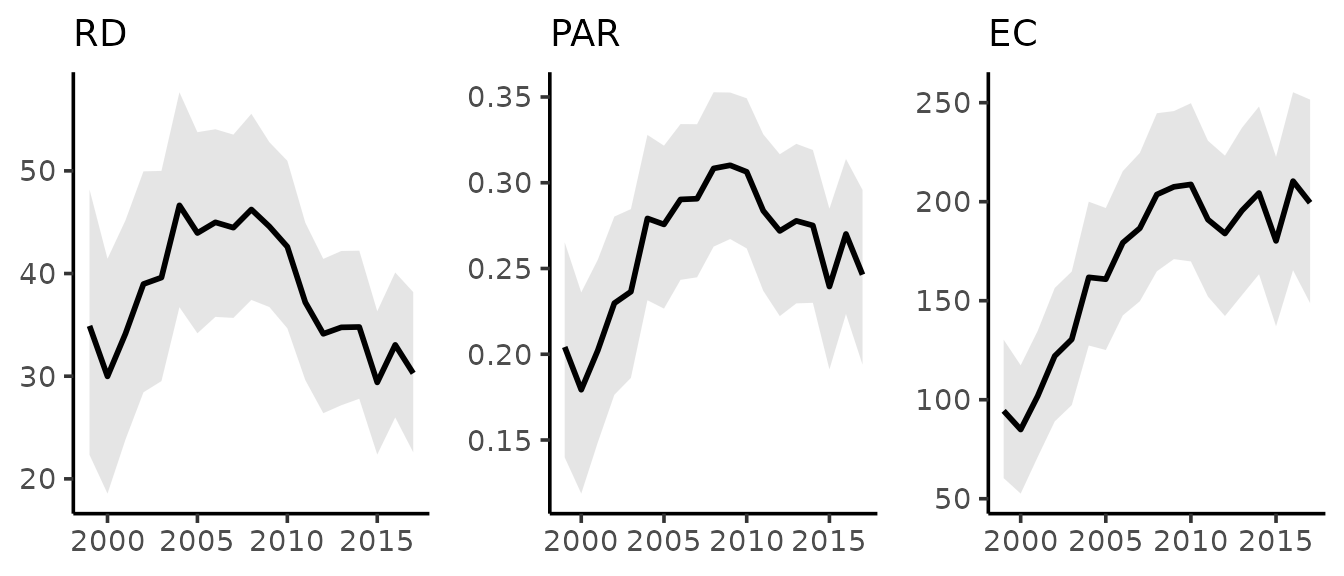
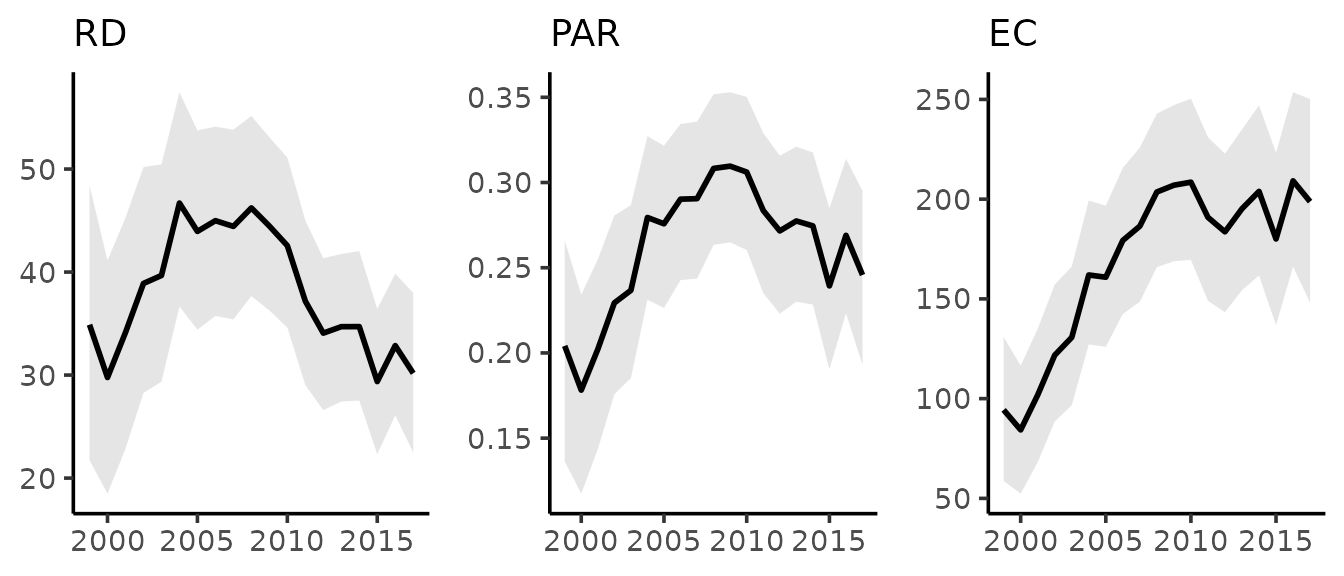
release 0.1.1

diff --git a/docs/articles/demonstration.html b/docs/articles/demonstration.html
@@ -275,9 +275,9 @@
 <span class="co">#&gt; Chain 1: Iteration: 1501 / 3000 [ 50%]  (Sampling)</span>
 <span class="co">#&gt; Chain 1: Iteration: 3000 / 3000 [100%]  (Sampling)</span>
 <span class="co">#&gt; Chain 1: </span>
-<span class="co">#&gt; Chain 1:  Elapsed Time: 0.572904 seconds (Warm-up)</span>
-<span class="co">#&gt; Chain 1:                0.444059 seconds (Sampling)</span>
-<span class="co">#&gt; Chain 1:                1.01696 seconds (Total)</span>
+<span class="co">#&gt; Chain 1:  Elapsed Time: 0.542811 seconds (Warm-up)</span>
+<span class="co">#&gt; Chain 1:                0.447004 seconds (Sampling)</span>
+<span class="co">#&gt; Chain 1:                0.989815 seconds (Total)</span>
 <span class="co">#&gt; Chain 1: </span>
 <span class="co">#&gt; </span>
 <span class="co">#&gt; SAMPLING FOR MODEL 'poissonRW' NOW (CHAIN 2).</span>
@@ -292,15 +292,15 @@
 <span class="co">#&gt; Chain 2: Iteration: 1501 / 3000 [ 50%]  (Sampling)</span>
 <span class="co">#&gt; Chain 2: Iteration: 3000 / 3000 [100%]  (Sampling)</span>
 <span class="co">#&gt; Chain 2: </span>
-<span class="co">#&gt; Chain 2:  Elapsed Time: 0.549725 seconds (Warm-up)</span>
-<span class="co">#&gt; Chain 2:                0.442195 seconds (Sampling)</span>
-<span class="co">#&gt; Chain 2:                0.99192 seconds (Total)</span>
+<span class="co">#&gt; Chain 2:  Elapsed Time: 0.52748 seconds (Warm-up)</span>
+<span class="co">#&gt; Chain 2:                0.43088 seconds (Sampling)</span>
+<span class="co">#&gt; Chain 2:                0.95836 seconds (Total)</span>
 <span class="co">#&gt; Chain 2: </span>
 <span class="co">#&gt; </span>
 <span class="co">#&gt; SAMPLING FOR MODEL 'poissonRW' NOW (CHAIN 3).</span>
 <span class="co">#&gt; Chain 3: </span>
-<span class="co">#&gt; Chain 3: Gradient evaluation took 1.4e-05 seconds</span>
-<span class="co">#&gt; Chain 3: 1000 transitions using 10 leapfrog steps per transition would take 0.14 seconds.</span>
+<span class="co">#&gt; Chain 3: Gradient evaluation took 1.3e-05 seconds</span>
+<span class="co">#&gt; Chain 3: 1000 transitions using 10 leapfrog steps per transition would take 0.13 seconds.</span>
 <span class="co">#&gt; Chain 3: Adjust your expectations accordingly!</span>
 <span class="co">#&gt; Chain 3: </span>
 <span class="co">#&gt; Chain 3: </span>
@@ -309,15 +309,15 @@
 <span class="co">#&gt; Chain 3: Iteration: 1501 / 3000 [ 50%]  (Sampling)</span>
 <span class="co">#&gt; Chain 3: Iteration: 3000 / 3000 [100%]  (Sampling)</span>
 <span class="co">#&gt; Chain 3: </span>
-<span class="co">#&gt; Chain 3:  Elapsed Time: 0.588316 seconds (Warm-up)</span>
-<span class="co">#&gt; Chain 3:                0.452115 seconds (Sampling)</span>
-<span class="co">#&gt; Chain 3:                1.04043 seconds (Total)</span>
+<span class="co">#&gt; Chain 3:  Elapsed Time: 0.557091 seconds (Warm-up)</span>
+<span class="co">#&gt; Chain 3:                0.434027 seconds (Sampling)</span>
+<span class="co">#&gt; Chain 3:                0.991118 seconds (Total)</span>
 <span class="co">#&gt; Chain 3: </span>
 <span class="co">#&gt; </span>
 <span class="co">#&gt; SAMPLING FOR MODEL 'poissonRW' NOW (CHAIN 4).</span>
 <span class="co">#&gt; Chain 4: </span>
-<span class="co">#&gt; Chain 4: Gradient evaluation took 1.8e-05 seconds</span>
-<span class="co">#&gt; Chain 4: 1000 transitions using 10 leapfrog steps per transition would take 0.18 seconds.</span>
+<span class="co">#&gt; Chain 4: Gradient evaluation took 1.5e-05 seconds</span>
+<span class="co">#&gt; Chain 4: 1000 transitions using 10 leapfrog steps per transition would take 0.15 seconds.</span>
 <span class="co">#&gt; Chain 4: Adjust your expectations accordingly!</span>
 <span class="co">#&gt; Chain 4: </span>
 <span class="co">#&gt; Chain 4: </span>
@@ -326,9 +326,9 @@
 <span class="co">#&gt; Chain 4: Iteration: 1501 / 3000 [ 50%]  (Sampling)</span>
 <span class="co">#&gt; Chain 4: Iteration: 3000 / 3000 [100%]  (Sampling)</span>
 <span class="co">#&gt; Chain 4: </span>
-<span class="co">#&gt; Chain 4:  Elapsed Time: 0.548821 seconds (Warm-up)</span>
-<span class="co">#&gt; Chain 4:                0.432596 seconds (Sampling)</span>
-<span class="co">#&gt; Chain 4:                0.981417 seconds (Total)</span>
+<span class="co">#&gt; Chain 4:  Elapsed Time: 0.526051 seconds (Warm-up)</span>
+<span class="co">#&gt; Chain 4:                0.434911 seconds (Sampling)</span>
+<span class="co">#&gt; Chain 4:                0.960962 seconds (Total)</span>
 <span class="co">#&gt; Chain 4:</span></code></pre></div>
 <p>If we wanted to add a correlation structure to the model, we would add <code>cor = TRUE</code> (as opposed to the default, <code>cor = FALSE</code>). To speed things up, we could take advantage of parallel processing using the <code>cores</code> argument (e.g., add <code>cores = 4</code>) to run on 4 cores simultaneously.</p>
 </div>
@@ -392,7 +392,7 @@
 <code class="sourceCode R"><span class="fu"><a href="https://rdrr.io/r/graphics/plot.default.html" class="external-link">plot</a></span><span class="op">(</span><span class="va">fit</span>, scale <span class="op">=</span> <span class="fl">100e3</span><span class="op">)</span>
 <span class="co">#&gt; Plotted rates are per 100,000</span></code></pre></div>
 <p><img src="demonstration_files/figure-html/unnamed-chunk-10-1.png" width="384" style="display: block; margin: auto;"></p>
-<p>Instead of viewing the default plot, we can first store the `<code>ggplot</code> in our working environment and then modify the figure as we please:</p>
+<p>Instead of viewing the default plot, we can first store the <code>ggplot</code> in our working environment and then modify the figure as we please:</p>
 <div class="sourceCode" id="cb10"><pre class="downlit sourceCode r">
 <code class="sourceCode R"><span class="va">fig</span> <span class="op">&lt;-</span> <span class="fu"><a href="https://rdrr.io/r/graphics/plot.default.html" class="external-link">plot</a></span><span class="op">(</span><span class="va">fit</span>, scale <span class="op">=</span> <span class="fl">100e3</span><span class="op">)</span>
 <span class="co">#&gt; Plotted rates are per 100,000</span>
@@ -426,28 +426,28 @@
 <span class="co">#&gt; Reference group: White</span>
 <span class="co">#&gt; Time periods observed: 19</span>
 <span class="co">#&gt; Rate scale: per 100,000</span>
-<span class="co">#&gt; Cumulative excess cases (EC): 3,207 [2974, 3442]</span>
+<span class="co">#&gt; Cumulative excess cases (EC): 3,202 [2975, 3436]</span>
 <span class="co">#&gt; Cumulative EC as a fraction of group risk (PAR): 0.27 [0.25, 0.28]</span>
 <span class="co">#&gt;  time Rate RD  PAR  RR  EC</span>
 <span class="co">#&gt;  1999  170 35 0.20 1.3  94</span>
-<span class="co">#&gt;  2000  166 30 0.18 1.2  85</span>
+<span class="co">#&gt;  2000  166 30 0.18 1.2  84</span>
 <span class="co">#&gt;  2001  168 34 0.20 1.3 102</span>
 <span class="co">#&gt;  2002  169 39 0.23 1.3 122</span>
-<span class="co">#&gt;  2003  167 40 0.24 1.3 130</span>
+<span class="co">#&gt;  2003  167 40 0.24 1.3 131</span>
 <span class="co">#&gt;  2004  167 47 0.28 1.4 162</span>
 <span class="co">#&gt;  2005  159 44 0.28 1.4 161</span>
 <span class="co">#&gt;  2006  155 45 0.29 1.4 179</span>
-<span class="co">#&gt;  2007  153 44 0.29 1.4 187</span>
+<span class="co">#&gt;  2007  153 44 0.29 1.4 186</span>
 <span class="co">#&gt;  2008  150 46 0.31 1.4 204</span>
-<span class="co">#&gt;  2009  144 45 0.31 1.5 208</span>
+<span class="co">#&gt;  2009  143 44 0.31 1.4 207</span>
 <span class="co">#&gt;  2010  139 43 0.31 1.4 209</span>
 <span class="co">#&gt;  2011  131 37 0.28 1.4 191</span>
 <span class="co">#&gt;  2012  125 34 0.27 1.4 184</span>
-<span class="co">#&gt;  2013  125 35 0.28 1.4 196</span>
-<span class="co">#&gt;  2014  126 35 0.28 1.4 204</span>
+<span class="co">#&gt;  2013  125 35 0.28 1.4 195</span>
+<span class="co">#&gt;  2014  126 35 0.27 1.4 204</span>
 <span class="co">#&gt;  2015  122 29 0.24 1.3 180</span>
-<span class="co">#&gt;  2016  122 33 0.27 1.4 210</span>
-<span class="co">#&gt;  2017  123 30 0.25 1.3 199</span></code></pre></div>
+<span class="co">#&gt;  2016  122 33 0.27 1.4 209</span>
+<span class="co">#&gt;  2017  122 30 0.25 1.3 199</span></code></pre></div>
 <p>All of the <strong>surveil</strong> plotting and printing methods provide an option to scale rates by a custom value. By setting <code>scale = 100e3</code> (100,000), the RD is printed as cases per 100,000. Note that none of the other inequality measures (PAR, RR, EC) are ever impacted by this choice.</p>
 <p>The plot method for <code>surveil_diff</code> produces one time series <code>ggplot</code> each for RD, PAR, and EC. The means of the probability distributions for each measure are plotted as lines, while the shading indicates a 95% credible interval:</p>
 <div class="sourceCode" id="cb13"><pre class="downlit sourceCode r">
@@ -474,25 +474,25 @@
 <span class="co">#&gt; Time periods observed: 19</span>
 <span class="co">#&gt; Theil's T (times 100) with 95% credible intervals</span>
 <span class="co">#&gt;  time Theil .lower .upper</span>
-<span class="co">#&gt;  1999 0.940  0.620  1.313</span>
-<span class="co">#&gt;  2000 0.797  0.528  1.093</span>
-<span class="co">#&gt;  2001 0.902  0.632  1.199</span>
-<span class="co">#&gt;  2002 0.980  0.703  1.293</span>
-<span class="co">#&gt;  2003 0.995  0.720  1.312</span>
-<span class="co">#&gt;  2004 1.066  0.757  1.455</span>
-<span class="co">#&gt;  2005 1.001  0.695  1.349</span>
-<span class="co">#&gt;  2006 1.048  0.732  1.403</span>
-<span class="co">#&gt;  2007 1.104  0.784  1.465</span>
-<span class="co">#&gt;  2008 1.247  0.895  1.659</span>
-<span class="co">#&gt;  2009 1.202  0.874  1.582</span>
-<span class="co">#&gt;  2010 1.131  0.801  1.522</span>
-<span class="co">#&gt;  2011 0.909  0.617  1.247</span>
-<span class="co">#&gt;  2012 0.768  0.486  1.081</span>
-<span class="co">#&gt;  2013 0.806  0.520  1.129</span>
-<span class="co">#&gt;  2014 0.860  0.580  1.189</span>
-<span class="co">#&gt;  2015 0.679  0.437  0.955</span>
-<span class="co">#&gt;  2016 0.809  0.536  1.126</span>
-<span class="co">#&gt;  2017 0.720  0.449  1.046</span></code></pre></div>
+<span class="co">#&gt;  1999 0.940  0.627  1.315</span>
+<span class="co">#&gt;  2000 0.796  0.533  1.084</span>
+<span class="co">#&gt;  2001 0.902  0.637  1.197</span>
+<span class="co">#&gt;  2002 0.980  0.694  1.310</span>
+<span class="co">#&gt;  2003 0.996  0.717  1.317</span>
+<span class="co">#&gt;  2004 1.068  0.756  1.438</span>
+<span class="co">#&gt;  2005 0.999  0.693  1.345</span>
+<span class="co">#&gt;  2006 1.046  0.730  1.405</span>
+<span class="co">#&gt;  2007 1.101  0.776  1.465</span>
+<span class="co">#&gt;  2008 1.243  0.896  1.629</span>
+<span class="co">#&gt;  2009 1.195  0.850  1.589</span>
+<span class="co">#&gt;  2010 1.129  0.796  1.520</span>
+<span class="co">#&gt;  2011 0.908  0.594  1.254</span>
+<span class="co">#&gt;  2012 0.766  0.484  1.070</span>
+<span class="co">#&gt;  2013 0.802  0.524  1.108</span>
+<span class="co">#&gt;  2014 0.855  0.577  1.180</span>
+<span class="co">#&gt;  2015 0.678  0.441  0.957</span>
+<span class="co">#&gt;  2016 0.802  0.531  1.124</span>
+<span class="co">#&gt;  2017 0.715  0.440  1.034</span></code></pre></div>
 <p>The probability distribution for Theil’s T can be summarized visualy using the <code>"lines"</code> style plot or by plotting estimates with shaded 95% credible intervals:</p>
 <div class="sourceCode" id="cb16"><pre class="downlit sourceCode r">
 <code class="sourceCode R"><span class="fu"><a href="https://rdrr.io/r/graphics/plot.default.html" class="external-link">plot</a></span><span class="op">(</span><span class="va">Ts</span><span class="op">)</span></code></pre></div>

diff --git a/cran-comments.md b/cran-comments.md
@@ -1,34 +1,11 @@
-# Resubmission
-
-This is a resubmission to CRAN. I fixed the following issues:
-
- * DESCRIPTION file now cites important references using ISBN and <https:...> when necessary.
- * @return values have been added to .Rd manual pages that were previously missing it (stan_rw.Rd; surveil_diff.Rd; theil_methods.Rd; stand_surveil.Rd) and documentation of methods has been improved (I removed apc_ls.Rd).
- * Examples no longer use \dontrun{}; example models that require more than 5 seconds are wrapped in \dontest{}.
-
-# R CMD check results
-
-On my Linux machine there were no unavoidable notes; I confirmed that the "(possibly) invalid URL" is valid, it is "blocked" by an application on my web browser. I also checked that the 'Possible spelling errors' are indeed correct spellings of surnames.
+Sent to win-builder and received "Status: OK"
 
 
-`devtools::check(manual = TRUE, incoming = TRUE, remote = TRUE)`
+Results from `devtools::check(remote = TRUE, incoming = TRUE, manual = T)` on Ubuntu 20.4:
 
-...
+── R CMD check results ────────────────────────────────────── surveil 0.1.1 ────
+Duration: 5m 41s
 
-There were no ERRORs or WARNINGs.
-── R CMD check results ────────────────────────────────────── surveil 0.1.0 ────
-Duration: 9m 17.5s
-
-❯ checking CRAN incoming feasibility ... NOTE
-  Maintainer: ‘Connor Donegan <connor.donegan@gmail.com>’
-  
-  New submission
-  
-  Possibly mis-spelled words in DESCRIPTION:
-    Conceicao (12:857)
-    Theil (12:981)
-    Theil's (12:274)
-  
 ❯ checking for GNU extensions in Makefiles ... NOTE
   GNU make is a SystemRequirements.
 
@@ -36,4 +13,7 @@ Duration: 9m 17.5s
   Compilation used the following non-portable flag(s):
     ‘-march=native’
 
-0 errors ✔ | 0 warnings ✔ | 3 notes ✖
+0 errors ✔ | 0 warnings ✔ | 2 notes ✖
+
+
+
